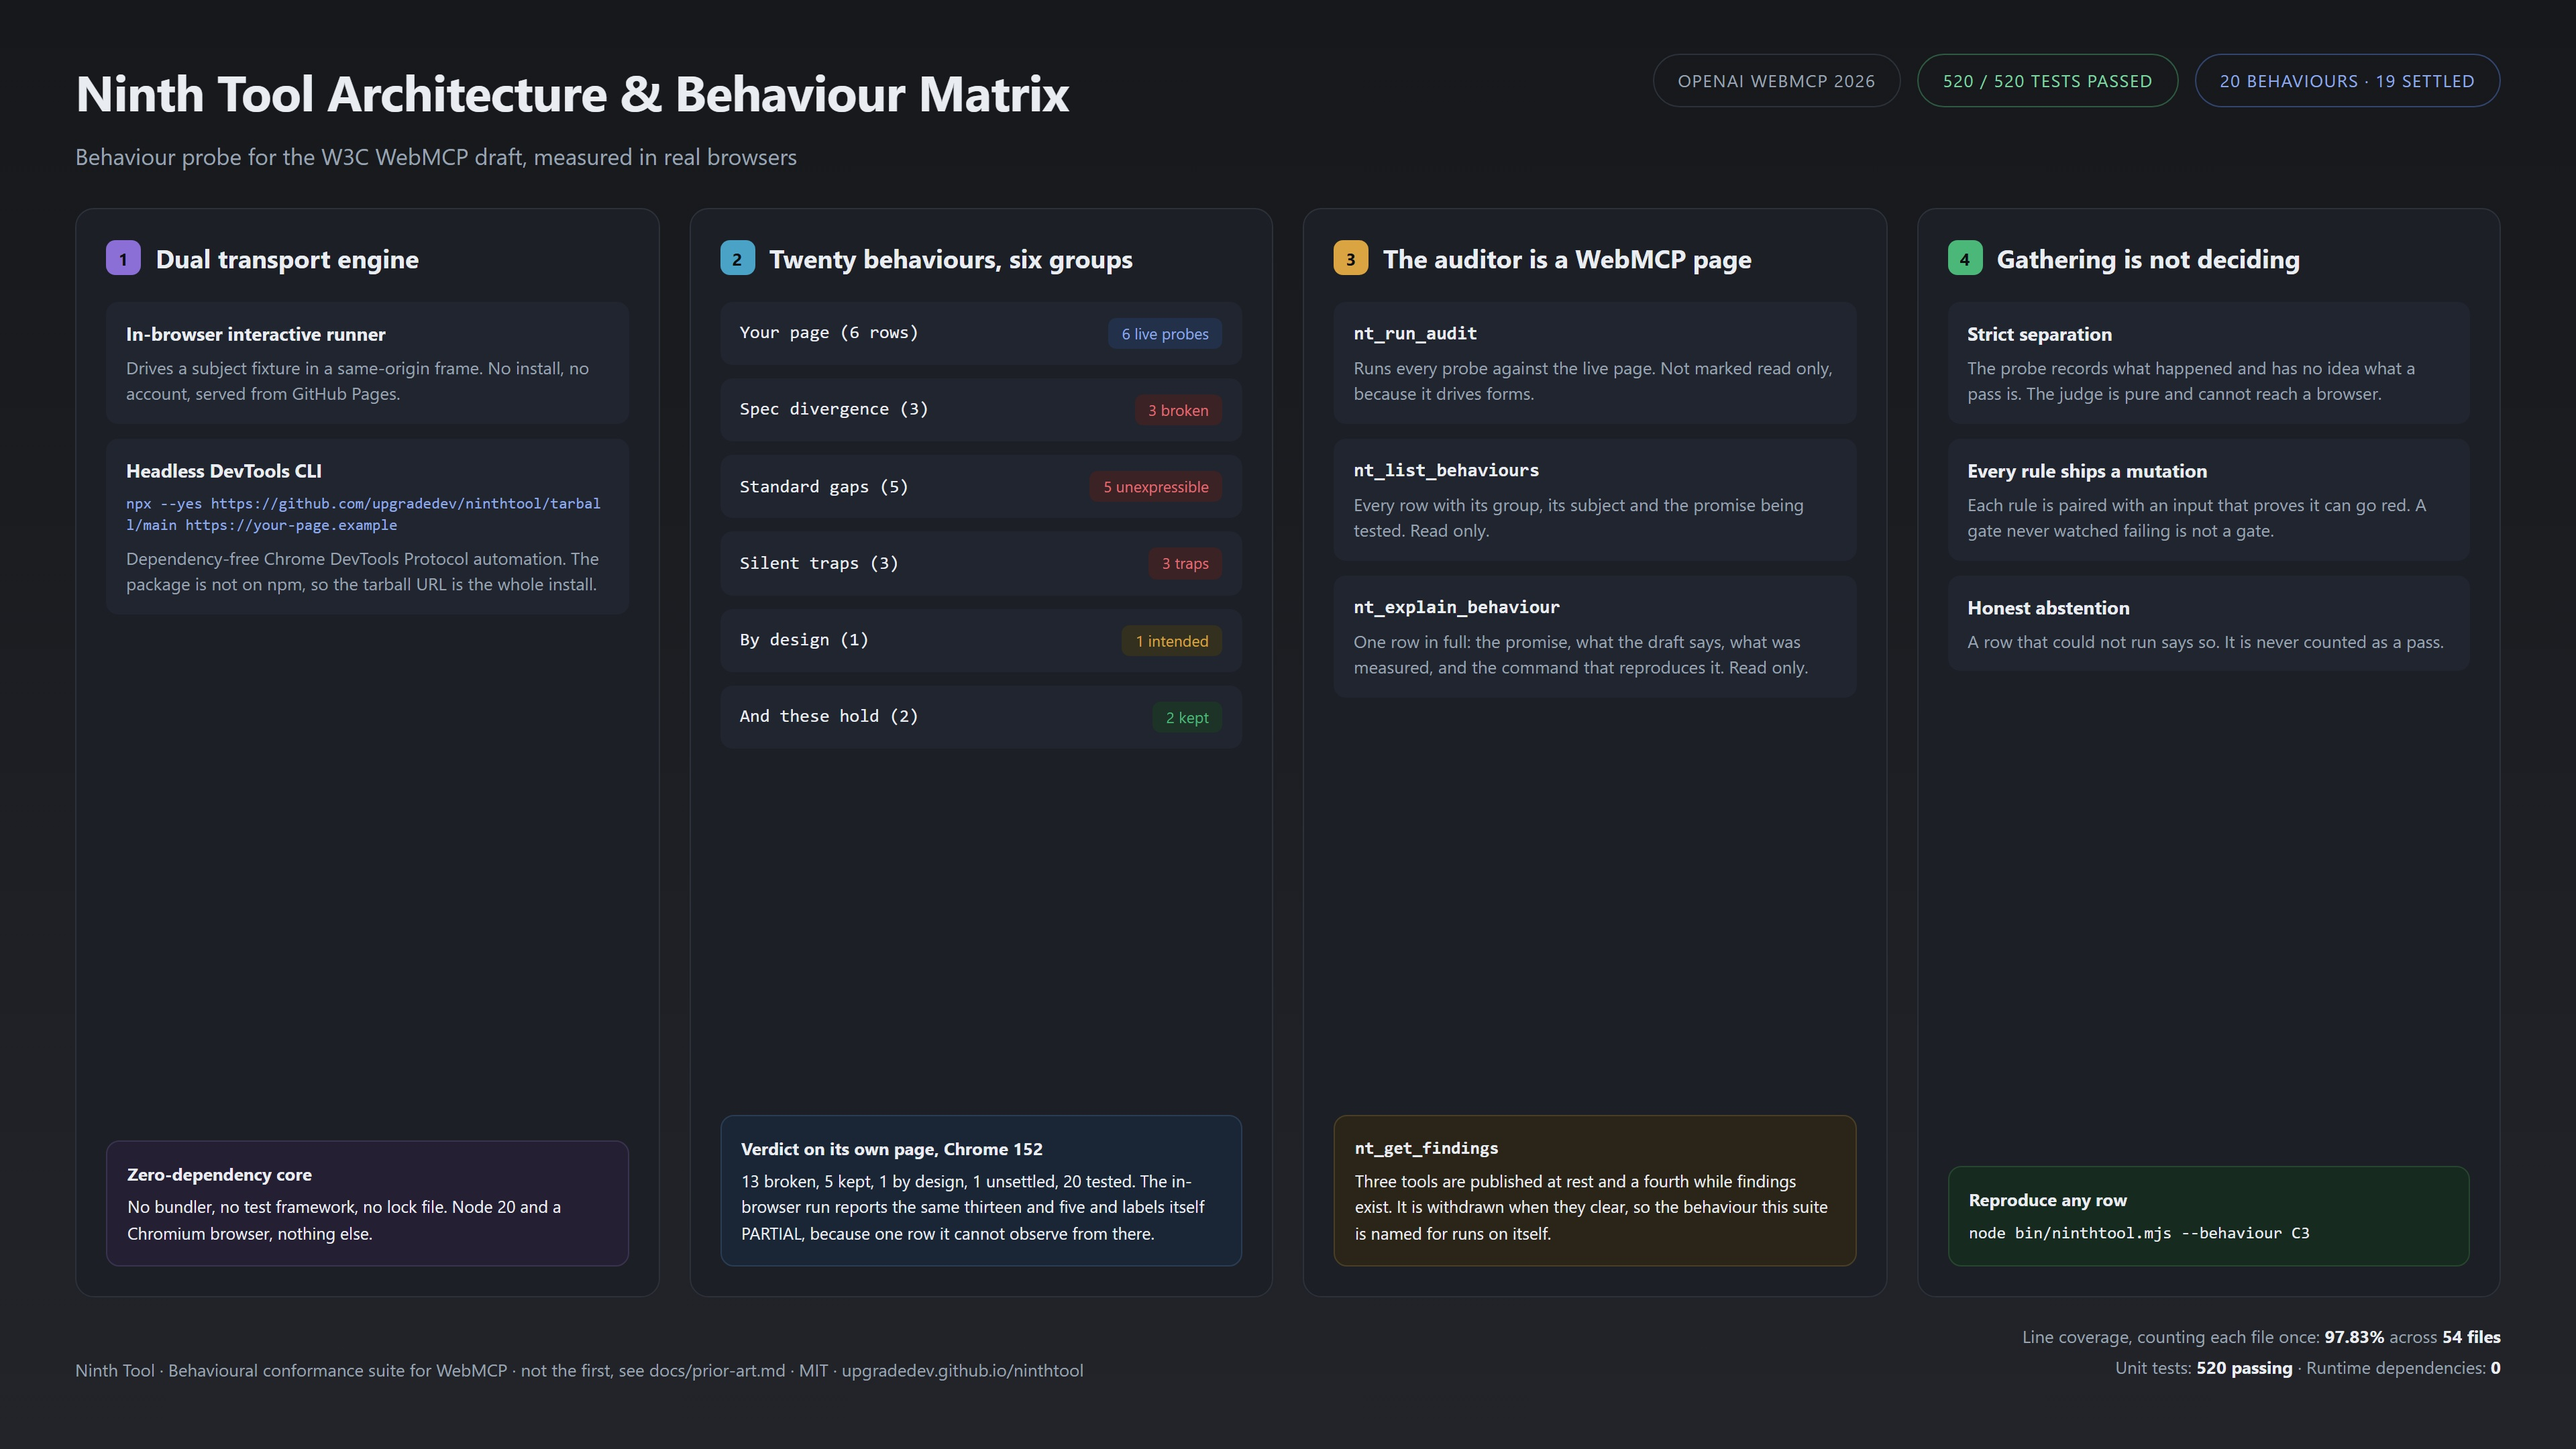
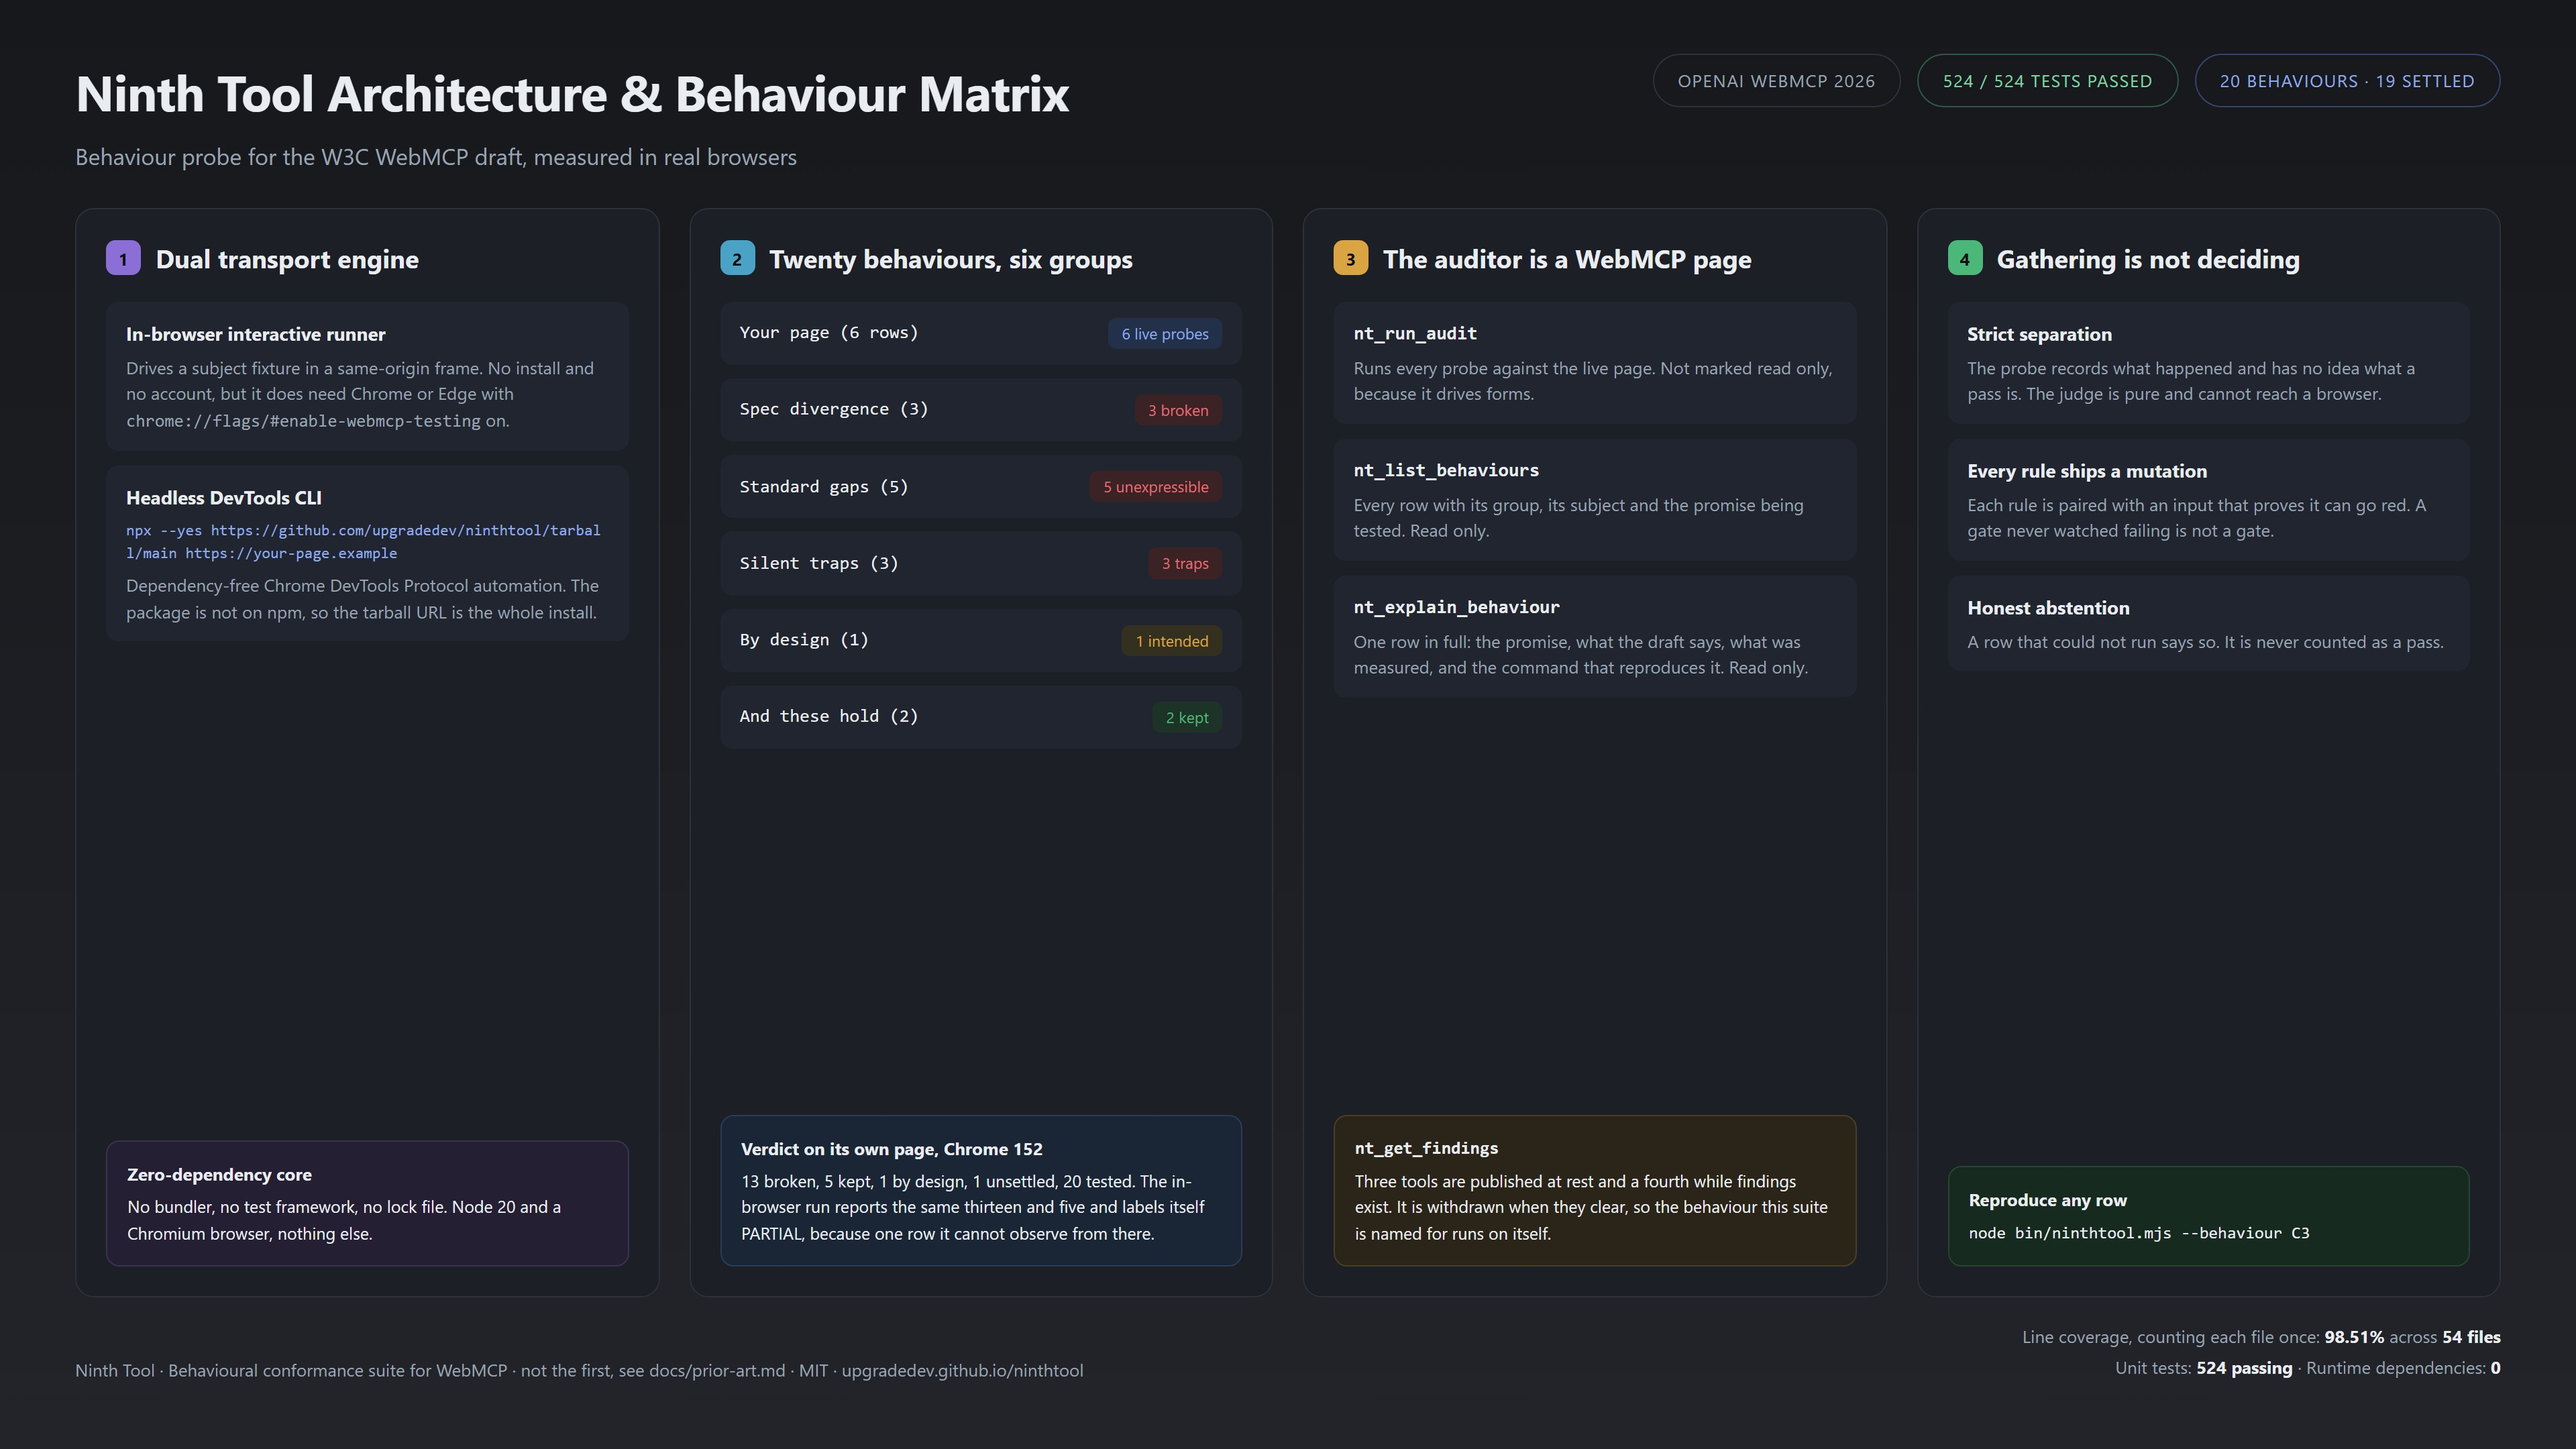
fix(assets): the diagram said no install, no account, and left out the flag
Panel 1 described the in-browser runner as needing no install and no
account. Both true, and together they read as open it in any browser, which
is the one thing that does not work. It needs Chrome or Edge with
chrome://flags/#enable-webmcp-testing on, which the README, the Devpost
body and the video all say and the picture did not.

The counts moved because this branch added a test file. 520 becomes 524 and
line coverage 97.83 becomes 98.51, both re-measured today rather than
carried over:

  node --experimental-test-coverage --test tests/unit | tee coverage.txt
  node tests/unit/coverage_gate.mjs coverage.txt --per-file --threshold=85

That is the third correction to this image in one day, and the reason is
worth writing down: a number typed into a picture cannot track a repository
that moves. The picture is generated from docs/architecture-diagram.html so
the edit is a text edit, but nothing yet fails when the two disagree.

Changed region(s): [[0.0312, 0.2481, 0.25, 0.4343]]

diff --git a/docs/architecture-diagram.html b/docs/architecture-diagram.html
@@ -76,7 +76,7 @@
   </div>
   <div class="badges">
     <span class="badge">OpenAI WebMCP 2026</span>
-    <span class="badge on">520 / 520 tests passed</span>
+    <span class="badge on">524 / 524 tests passed</span>
     <span class="badge acc">20 behaviours &middot; 19 settled</span>
   </div>
 </header>
@@ -86,7 +86,7 @@
     <h2><span class="n">1</span> Dual transport engine</h2>
     <div class="item">
       <b>In-browser interactive runner</b>
-      <p>Drives a subject fixture in a same-origin frame. No install, no account, served from GitHub Pages.</p>
+      <p>Drives a subject fixture in a same-origin frame. No install and no account, but it does need Chrome or Edge with <span class="mono">chrome://flags/#enable-webmcp-testing</span> on.</p>
     </div>
     <div class="item">
       <b>Headless DevTools CLI</b>
@@ -159,7 +159,7 @@
 <footer>
   <div>Ninth Tool &middot; Behavioural conformance suite for WebMCP &middot; not the first, see docs/prior-art.md &middot; MIT &middot; upgradedev.github.io/ninthtool</div>
   <div class="stats">
-    Line coverage, counting each file once: <b>97.83%</b> across <b>54 files</b><br>
-    Unit tests: <b>520 passing</b> &middot; Runtime dependencies: <b>0</b>
+    Line coverage, counting each file once: <b>98.51%</b> across <b>54 files</b><br>
+    Unit tests: <b>524 passing</b> &middot; Runtime dependencies: <b>0</b>
   </div>
 </footer>
